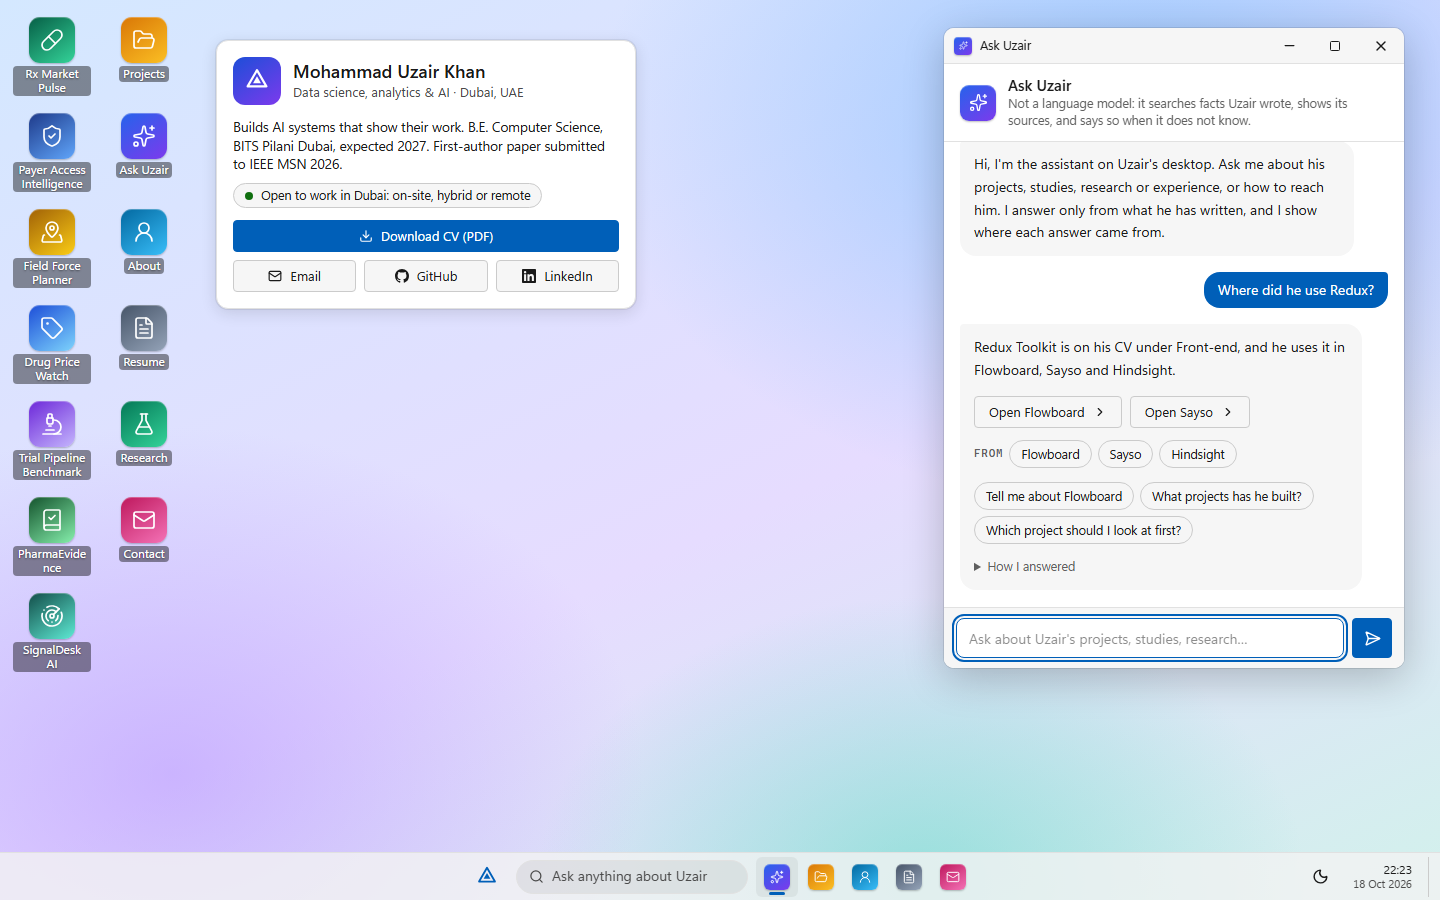
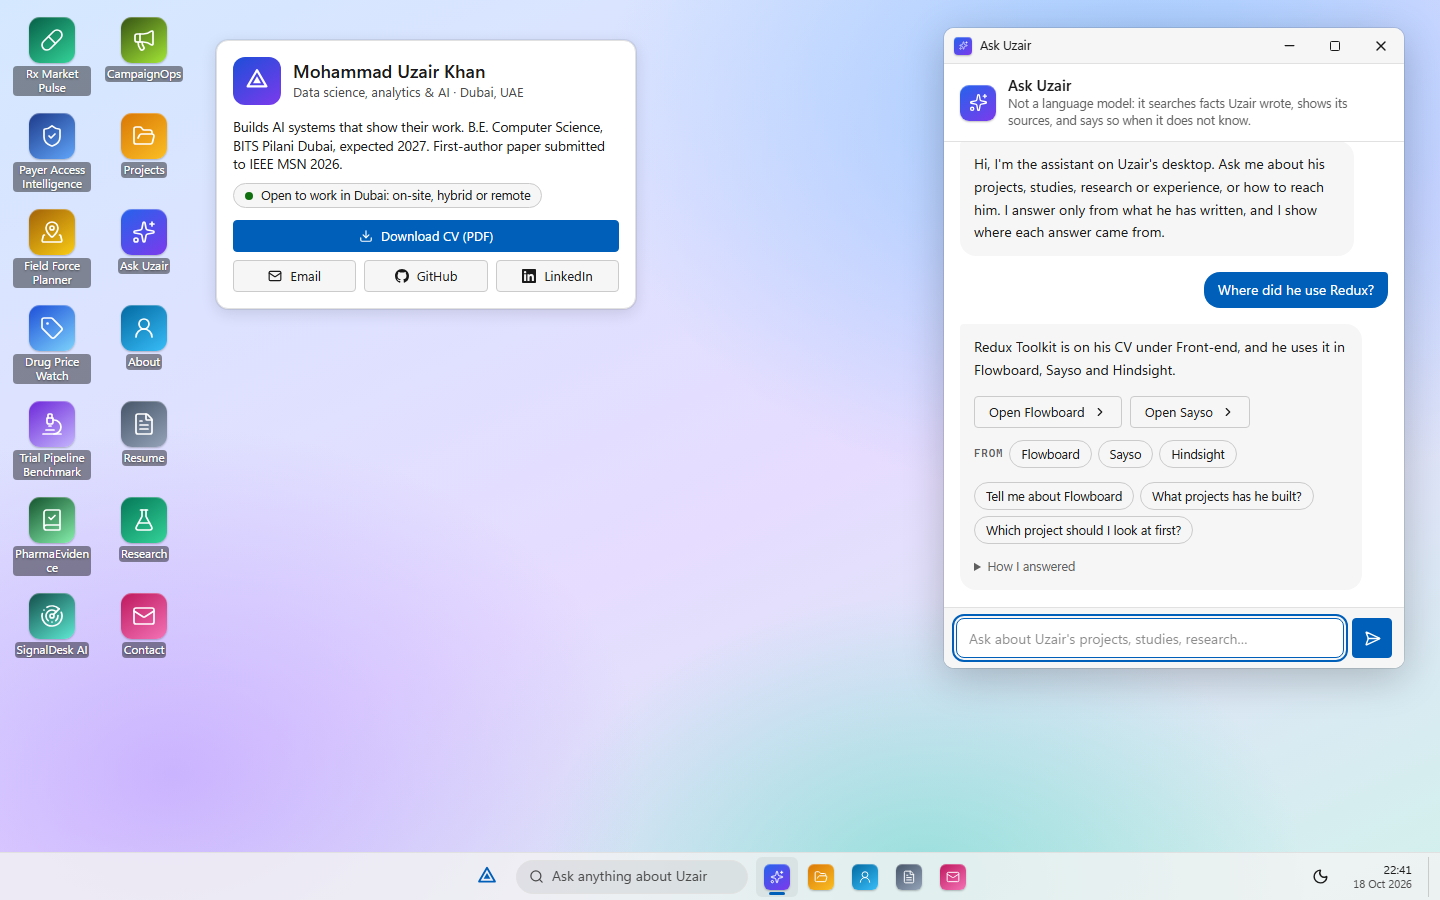
[Retrospective snapshot 2024] Add CampaignOps as the eighth flagship project, and link its code from the analyst CV
- CampaignOps (campaign analytics and WordPress operations; synthetic data, labelled so),
  with facts from its README and verification record and a picture of its overview
- flagship descriptions now say CampaignOps uses labelled synthetic data
- icon labels: tighter padding so names like CampaignOps fit on one line
- public data analyst CV: CampaignOps now has a code link
- a fact no longer uses the word "install", which pulled an unrelated question to it;
  evaluation unchanged at 164/166 and 39/40; 283 unit and 135 end-to-end tests pass

Reconstructed on 2026-11-09T18:35:02.7205661+04:00 for a retrospective presentation timeline.
The 2024 author date is assigned retrospectively; it is not an original development date or evidence of work performed in 2024.
Original-Commit: ba429dd566109a603549f99cd6da0c2f89eb3edb
Original-Author-Date: 2026-10-18T22:44:12+04:00

diff --git a/src/knowledge/projects.ts b/src/knowledge/projects.ts
@@ -403,6 +403,38 @@ export const projects: Project[] = [
     sources: ["readme"],
   },
   {
+    id: "campaignops-digital-solutions",
+    name: "CampaignOps",
+    aliases: ["campaign ops", "campaignops digital solutions", "campaign analytics", "wordpress project", "digital data solutions"],
+    kind: "flagship",
+    tagline: "Campaign analytics and WordPress content operations: a reported drop traced from the data to a fixed sign-up path.",
+    pitch:
+      "A reported campaign performance drop becomes a traceable investigation: check the tracking data, review the content asset in a real WordPress editor, fix a mobile registration path and record a real test journey. SQL recomputes every rate from its numerator and denominator, and reports export as PDF, Excel and CSV.",
+    facts: [
+      "8,861 accepted events, 73 quarantined rows and 228 populated reporting scopes; every report carries the input hashes and a calculation fingerprint.",
+      "Rates are recomputed for each scope with SQL grouping sets, never averaged across weeks or months, and a zero denominator is shown as undefined.",
+      "A real WordPress site is driven in the browser: the seeded mobile defect is reproduced, fixed in the native editor, and a new mobile registration is recorded and imported as an observed test.",
+      "10 pipeline tests, 13 WordPress checks and 23 browser checks against the public site passed, as of 18 October 2026.",
+      "Optional saved AI briefs from Gemini are rejected if they cite an unknown metric or write their own numbers; the public site has no live model.",
+    ],
+    decisions: [
+      "Conflicting records that share an ID are all quarantined, and tag mappings are explicit: nothing is guessed.",
+      "The test journey is kept apart from the historical figures, so it is never presented as measured conversion lift.",
+    ],
+    limits: [
+      "The campaign activity is synthetic, made from a fixed seed, and labelled so on the site; only the WHO health-day dates are real. No MSD data, patient records or claimed commercial lift.",
+    ],
+    stack: ["Python", "SQL", "Next.js", "TypeScript", "WordPress", "PHP", "Gemini API", "Playwright"],
+    tags: ["deployed", "hosted", "live", "online", "campaign analytics", "marketing analytics", "digital", "omnichannel", "email", "webinar", "wordpress", "cms", "content operations", "data quality", "reporting", "kpi", "pharma", "synthetic data"],
+    code: `${GH}/campaignops-digital-solutions`,
+    live: { url: "https://campaignops-digital-solutions.vercel.app", frameable: false },
+    shots: [{ src: "/media/campaignops-digital-solutions/overview.webp", alt: "CampaignOps' overview: email click, engaged session, registration and webinar attendance rates, marked as demo data." }],
+    icon: { glyph: "Megaphone", from: "#365314", to: "#a3e635" },
+    updated: "2026-10",
+    asOf: "2026-10-18",
+    sources: ["readme"],
+  },
+  {
     id: "footnote",
     name: "Footnote",
     aliases: ["financebench", "filings analyst", "10-k project", "filings search"],

diff --git a/src/knowledge/faq.ts b/src/knowledge/faq.ts
@@ -167,7 +167,7 @@ export const faqs: Faq[] = [
       "What is his data analytics experience?",
     ],
     answer:
-      "Eight projects work on large public datasets; the seven related to MSD's business are the flagship projects on the desktop. Rx Market Pulse cleans 36.1 million US Medicaid rows into a web report, a Power BI project and an Excel model. Payer Access Intelligence compares Medicare plan coverage from 2.24 million formulary records in Excel and Power BI. Field Force Planner sizes a sales force from the 9.9 million-record NPI registry and balances territories. Drug Price Watch builds a price index from 17.3 million weekly prices. Trial Pipeline Benchmark compares 12 companies' clinical trials. PharmaEvidence, SignalDesk AI and Footnote evaluate retrieval and AI systems against held-out tests and baselines. These are independent projects on public data, not paid work.",
+      "Eight projects work on large public datasets, and CampaignOps on clearly labelled synthetic campaign data; the eight related to MSD's business are the flagship projects on the desktop. Rx Market Pulse cleans 36.1 million US Medicaid rows into a web report, a Power BI project and an Excel model. Payer Access Intelligence compares Medicare plan coverage from 2.24 million formulary records in Excel and Power BI. Field Force Planner sizes a sales force from the 9.9 million-record NPI registry and balances territories. Drug Price Watch builds a price index from 17.3 million weekly prices. Trial Pipeline Benchmark compares 12 companies' clinical trials. CampaignOps traces a campaign drop from its tracking data to a fixed sign-up path in WordPress. PharmaEvidence, SignalDesk AI and Footnote evaluate retrieval and AI systems against held-out tests and baselines. These are independent projects on public data, not paid work.",
     app: "projects",
     sources: ["readme", "cv"],
   },
@@ -207,7 +207,7 @@ export const faqs: Faq[] = [
     id: "portfolio-site",
     questions: ["Does he have a portfolio?", "Where is his portfolio?", "Can I see his portfolio?", "Is there a portfolio website?"],
     answer:
-      "You are looking at it. This desktop is his portfolio: the icons are his flagship projects (data work on public pharmaceutical data related to MSD's business), the Projects folder holds everything, and most of his live sites run inside their windows.",
+      "You are looking at it. This desktop is his portfolio: the icons are his flagship projects (data work related to MSD's business), the Projects folder holds everything, and most of his live sites run inside their windows.",
     app: "projects",
     sources: ["readme"],
   },

diff --git a/tests/e2e/desktop.spec.ts b/tests/e2e/desktop.spec.ts
@@ -15,7 +15,7 @@ test.describe("the desktop", () => {
   test("shows his flagship projects first, as the first column of icons", async ({ page }) => {
     await gotoDesktop(page);
     const names = await page.getByRole("option").evaluateAll((els) => els.map((e) => e.getAttribute("aria-label")));
-    expect(names.slice(0, 7)).toEqual(["Rx Market Pulse", "Payer Access Intelligence", "Field Force Planner", "Drug Price Watch", "Trial Pipeline Benchmark", "PharmaEvidence", "SignalDesk AI"].map((n) => `${n}, project`));
+    expect(names.slice(0, 8)).toEqual(["Rx Market Pulse", "Payer Access Intelligence", "Field Force Planner", "Drug Price Watch", "Trial Pipeline Benchmark", "PharmaEvidence", "SignalDesk AI", "CampaignOps"].map((n) => `${n}, project`));
   });
 
   for (const name of DESKTOP_ICONS) {
@@ -222,7 +222,7 @@ test.describe("by keyboard", () => {
     await page.keyboard.press("ArrowDown");
     await expect(icon(page, "Field Force Planner")).toBeFocused();
     await page.keyboard.press("ArrowRight");
-    await expect(icon(page, "About")).toBeFocused();
+    await expect(icon(page, "Ask Uzair")).toBeFocused();
     await page.keyboard.press("ArrowLeft");
     await expect(icon(page, "Field Force Planner")).toBeFocused();
     await page.keyboard.press("Enter");
@@ -366,11 +366,11 @@ test.describe("the simple view", () => {
     await gotoDesktop(desk);
     await openIcon(desk, "Projects");
     const projectRows = win(desk, "Projects").getByRole("list", { name: "Projects" }).getByRole("button");
-    await expect(projectRows).toHaveCount(22);
+    await expect(projectRows).toHaveCount(23);
     const rows = await projectRows.evaluateAll((els) => els.map((e) => e.querySelector("span.font-medium")?.textContent ?? ""));
     await ctx.close();
     expect([...rows].sort()).toEqual([...fromSimple].sort());
-    expect(rows).toHaveLength(22);
+    expect(rows).toHaveLength(23);
   });
 
   test("works with scripts off, and the desktop says where to go instead", async ({ browser, request }) => {

diff --git a/tests/e2e/projects.spec.ts b/tests/e2e/projects.spec.ts
@@ -62,18 +62,18 @@ test.describe("project windows", () => {
 });
 
 test.describe("the Projects folder", () => {
-  test("lists all twenty-two, filters by folder, and opens one by double-click or Enter", async ({ page }) => {
+  test("lists all twenty-three, filters by folder, and opens one by double-click or Enter", async ({ page }) => {
     await gotoDesktop(page);
     const w = await openIcon(page, "Projects");
     const rows = w.getByRole("list", { name: "Projects" }).getByRole("button");
-    await expect(rows).toHaveCount(22);
+    await expect(rows).toHaveCount(23);
     const folders = w.getByRole("navigation", { name: "Project folders" });
     await folders.getByRole("button", { name: "AI apps" }).click();
     await expect(rows).toHaveCount(4);
     await folders.getByRole("button", { name: "Quant and markets" }).click();
     await expect(rows).toHaveCount(3);
     await folders.getByRole("button", { name: "Flagship" }).click();
-    await expect(rows).toHaveCount(7);
+    await expect(rows).toHaveCount(8);
     await rows.first().focus();
     await page.keyboard.press("ArrowDown");
     await page.keyboard.press("Enter");

diff --git a/src/simple/SimpleView.tsx b/src/simple/SimpleView.tsx
@@ -61,7 +61,7 @@ export function SimpleView() {
       <main>
         <section aria-labelledby="s-projects" className="py-6">
           <h2 id="s-projects" className="mb-1 text-[22px] font-semibold">Projects</h2>
-          <p className="text-[14px] text-muted">The flagship projects are data science and analytics work on public pharmaceutical data related to MSD&rsquo;s business: independent projects, not work for MSD. Most are live on the web. Flagship figures are as of {dayLabel(flagship.map((p) => p.asOf).sort().at(-1) ?? "2026-10-18")}; other figures as of {ASOF_LABEL}.</p>
+          <p className="text-[14px] text-muted">The flagship projects are data science and analytics work related to MSD&rsquo;s business, on public pharmaceutical data (CampaignOps on labelled synthetic campaign data): independent projects, not work for MSD. Most are live on the web. Flagship figures are as of {dayLabel(flagship.map((p) => p.asOf).sort().at(-1) ?? "2026-10-18")}; other figures as of {ASOF_LABEL}.</p>
           {flagship.map((p) => (
             <ProjectBlock key={p.id} p={p} />
           ))}

diff --git a/src/ai/compose.ts b/src/ai/compose.ts
@@ -110,7 +110,7 @@ export function cvActions(): Action[] {
 export function projectsListBlocks(): Block[] {
   const apps = projects.filter((p) => p.kind === "apps");
   return [
-    para(`His ${flagship.length} flagship projects are data science and analytics work on public pharmaceutical data related to MSD's business (independent projects, not work for MSD). Each opens in its own window with the numbers and the decisions behind it:`),
+    para(`His ${flagship.length} flagship projects are data science and analytics work related to MSD's business, on public pharmaceutical data (CampaignOps on labelled synthetic campaign data). They are independent projects, not work for MSD. Each opens in its own window with the numbers and the decisions behind it:`),
     { type: "list", items: flagship.map((p) => `${p.name}: ${p.tagline}`) },
     para(`Four earlier AI apps are in the Projects folder too: ${apps.map((p) => p.name).join(", ")}, each live on the web.`),
     { type: "list", items: apps.map((p) => `${p.name}: ${p.tagline}`) },

diff --git a/src/ai/answer.test.ts b/src/ai/answer.test.ts
@@ -38,7 +38,7 @@ describe("the projects", () => {
   it("lists the flagship projects, then the AI apps", () => {
     const a = one("What projects has he built?");
     expect(a.explain.intent).toBe("projects_list");
-    for (const name of ["Rx Market Pulse", "Payer Access Intelligence", "Field Force Planner", "Drug Price Watch", "Trial Pipeline Benchmark", "PharmaEvidence", "SignalDesk AI"]) expect(text(a)).toContain(name);
+    for (const name of ["Rx Market Pulse", "Payer Access Intelligence", "Field Force Planner", "Drug Price Watch", "Trial Pipeline Benchmark", "PharmaEvidence", "SignalDesk AI", "CampaignOps"]) expect(text(a)).toContain(name);
     for (const name of ["Agent Desk", "Flowboard", "Sayso", "Hindsight"]) expect(text(a)).toContain(name);
     expect(text(a)).toContain("not work for MSD");
     expect(a.actions.some((x) => x.target === "projects")).toBe(true);

diff --git a/tests/e2e/helpers.ts b/tests/e2e/helpers.ts
@@ -48,4 +48,4 @@ export async function drag(page: Page, from: { x: number; y: number }, to: { x: 
   await page.mouse.up();
 }
 
-export const DESKTOP_ICONS = ["Rx Market Pulse", "Payer Access Intelligence", "Field Force Planner", "Drug Price Watch", "Trial Pipeline Benchmark", "PharmaEvidence", "SignalDesk AI", "Projects", "Ask Uzair", "About", "Resume", "Research", "Contact"] as const;
+export const DESKTOP_ICONS = ["Rx Market Pulse", "Payer Access Intelligence", "Field Force Planner", "Drug Price Watch", "Trial Pipeline Benchmark", "PharmaEvidence", "SignalDesk AI", "CampaignOps", "Projects", "Ask Uzair", "About", "Resume", "Research", "Contact"] as const;

diff --git a/src/apps/AboutApp.tsx b/src/apps/AboutApp.tsx
@@ -19,7 +19,7 @@ const FACTS: [string, string][] = [
 const TILES: { value: string; label: string }[] = [
   { value: "97.33%", label: "accuracy of the model in his IEEE paper, running on a Raspberry Pi 4B" },
   { value: String(projects.filter((p) => p.live).length), label: "projects live on the web" },
-  { value: String(flagship.length), label: "flagship data projects on public pharmaceutical data" },
+  { value: String(flagship.length), label: "flagship data projects related to MSD's business" },
   { value: "1st", label: "author on a paper submitted to IEEE MSN 2026" },
   { value: "2027", label: "expected graduation, BITS Pilani Dubai" },
 ];

diff --git a/tests/e2e/phone.spec.ts b/tests/e2e/phone.spec.ts
@@ -9,7 +9,7 @@ test.describe("on a phone", () => {
     await gotoDesktop(page);
     await expect(page.getByRole("dialog")).toHaveCount(0);
     const n = await page.getByRole("option").count();
-    expect(n).toBe(13);
+    expect(n).toBe(14);
     const overflow = await page.evaluate(() => document.documentElement.scrollWidth > window.innerWidth);
     expect(overflow).toBe(false);
     expect(errors).toEqual([]);

diff --git a/src/os/icons.tsx b/src/os/icons.tsx
@@ -28,6 +28,7 @@ import {
   Radar,
   ShieldCheck,
   Tag,
+  Megaphone,
   type LucideIcon,
 } from "lucide-react";
 import type { IconSpec } from "@/knowledge/schema";
@@ -64,6 +65,7 @@ const GLYPHS: Record<string, LucideIcon> = {
   Radar,
   ShieldCheck,
   Tag,
+  Megaphone,
 };
 
 /** A rounded tile with a gradient and a white glyph: what an app or project looks like. */

diff --git a/src/app/globals.css b/src/app/globals.css
@@ -209,7 +209,8 @@ button {
   /* Two lines of a long name ("Trial Pipeline Benchmark") fit inside the 92px tile; a single long word breaks like Windows does. */
   line-height: 1.15;
   max-width: 100%;
-  padding: 1px 4px;
+  padding: 1px 2px;
+  letter-spacing: -0.1px;
   overflow-wrap: anywhere;
   border-radius: 4px;
   background: rgb(0 0 0 / 0.42);
